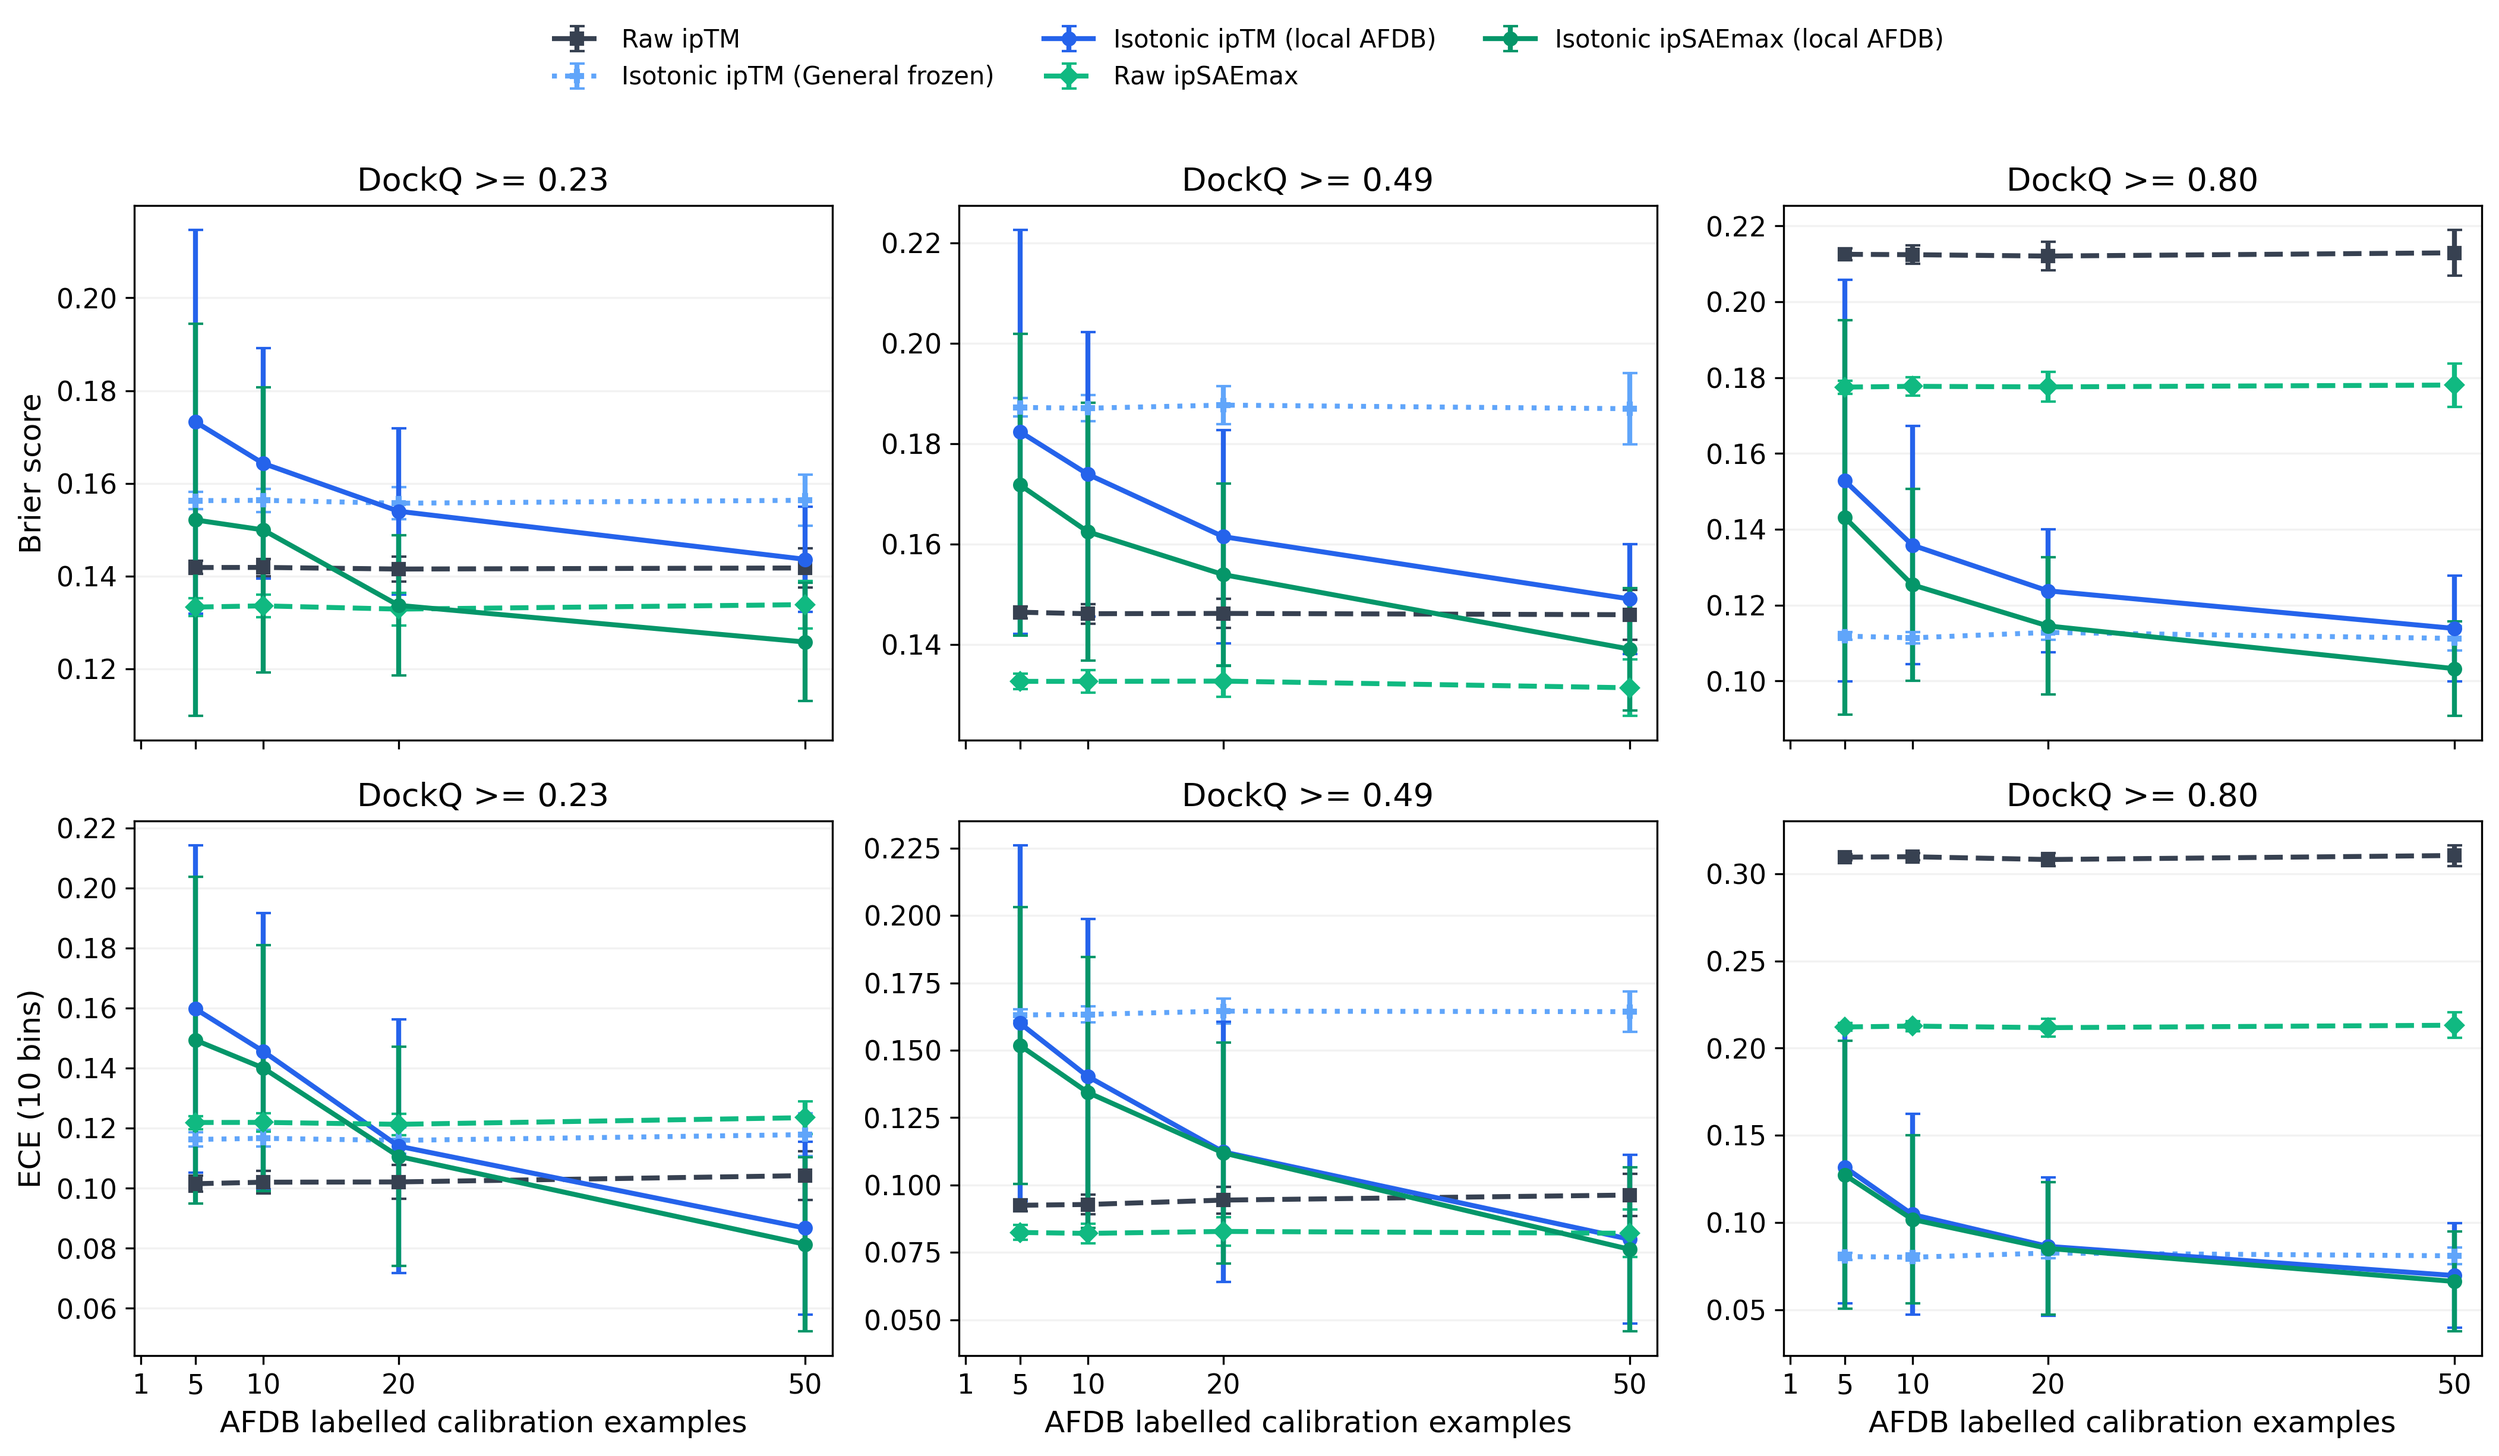
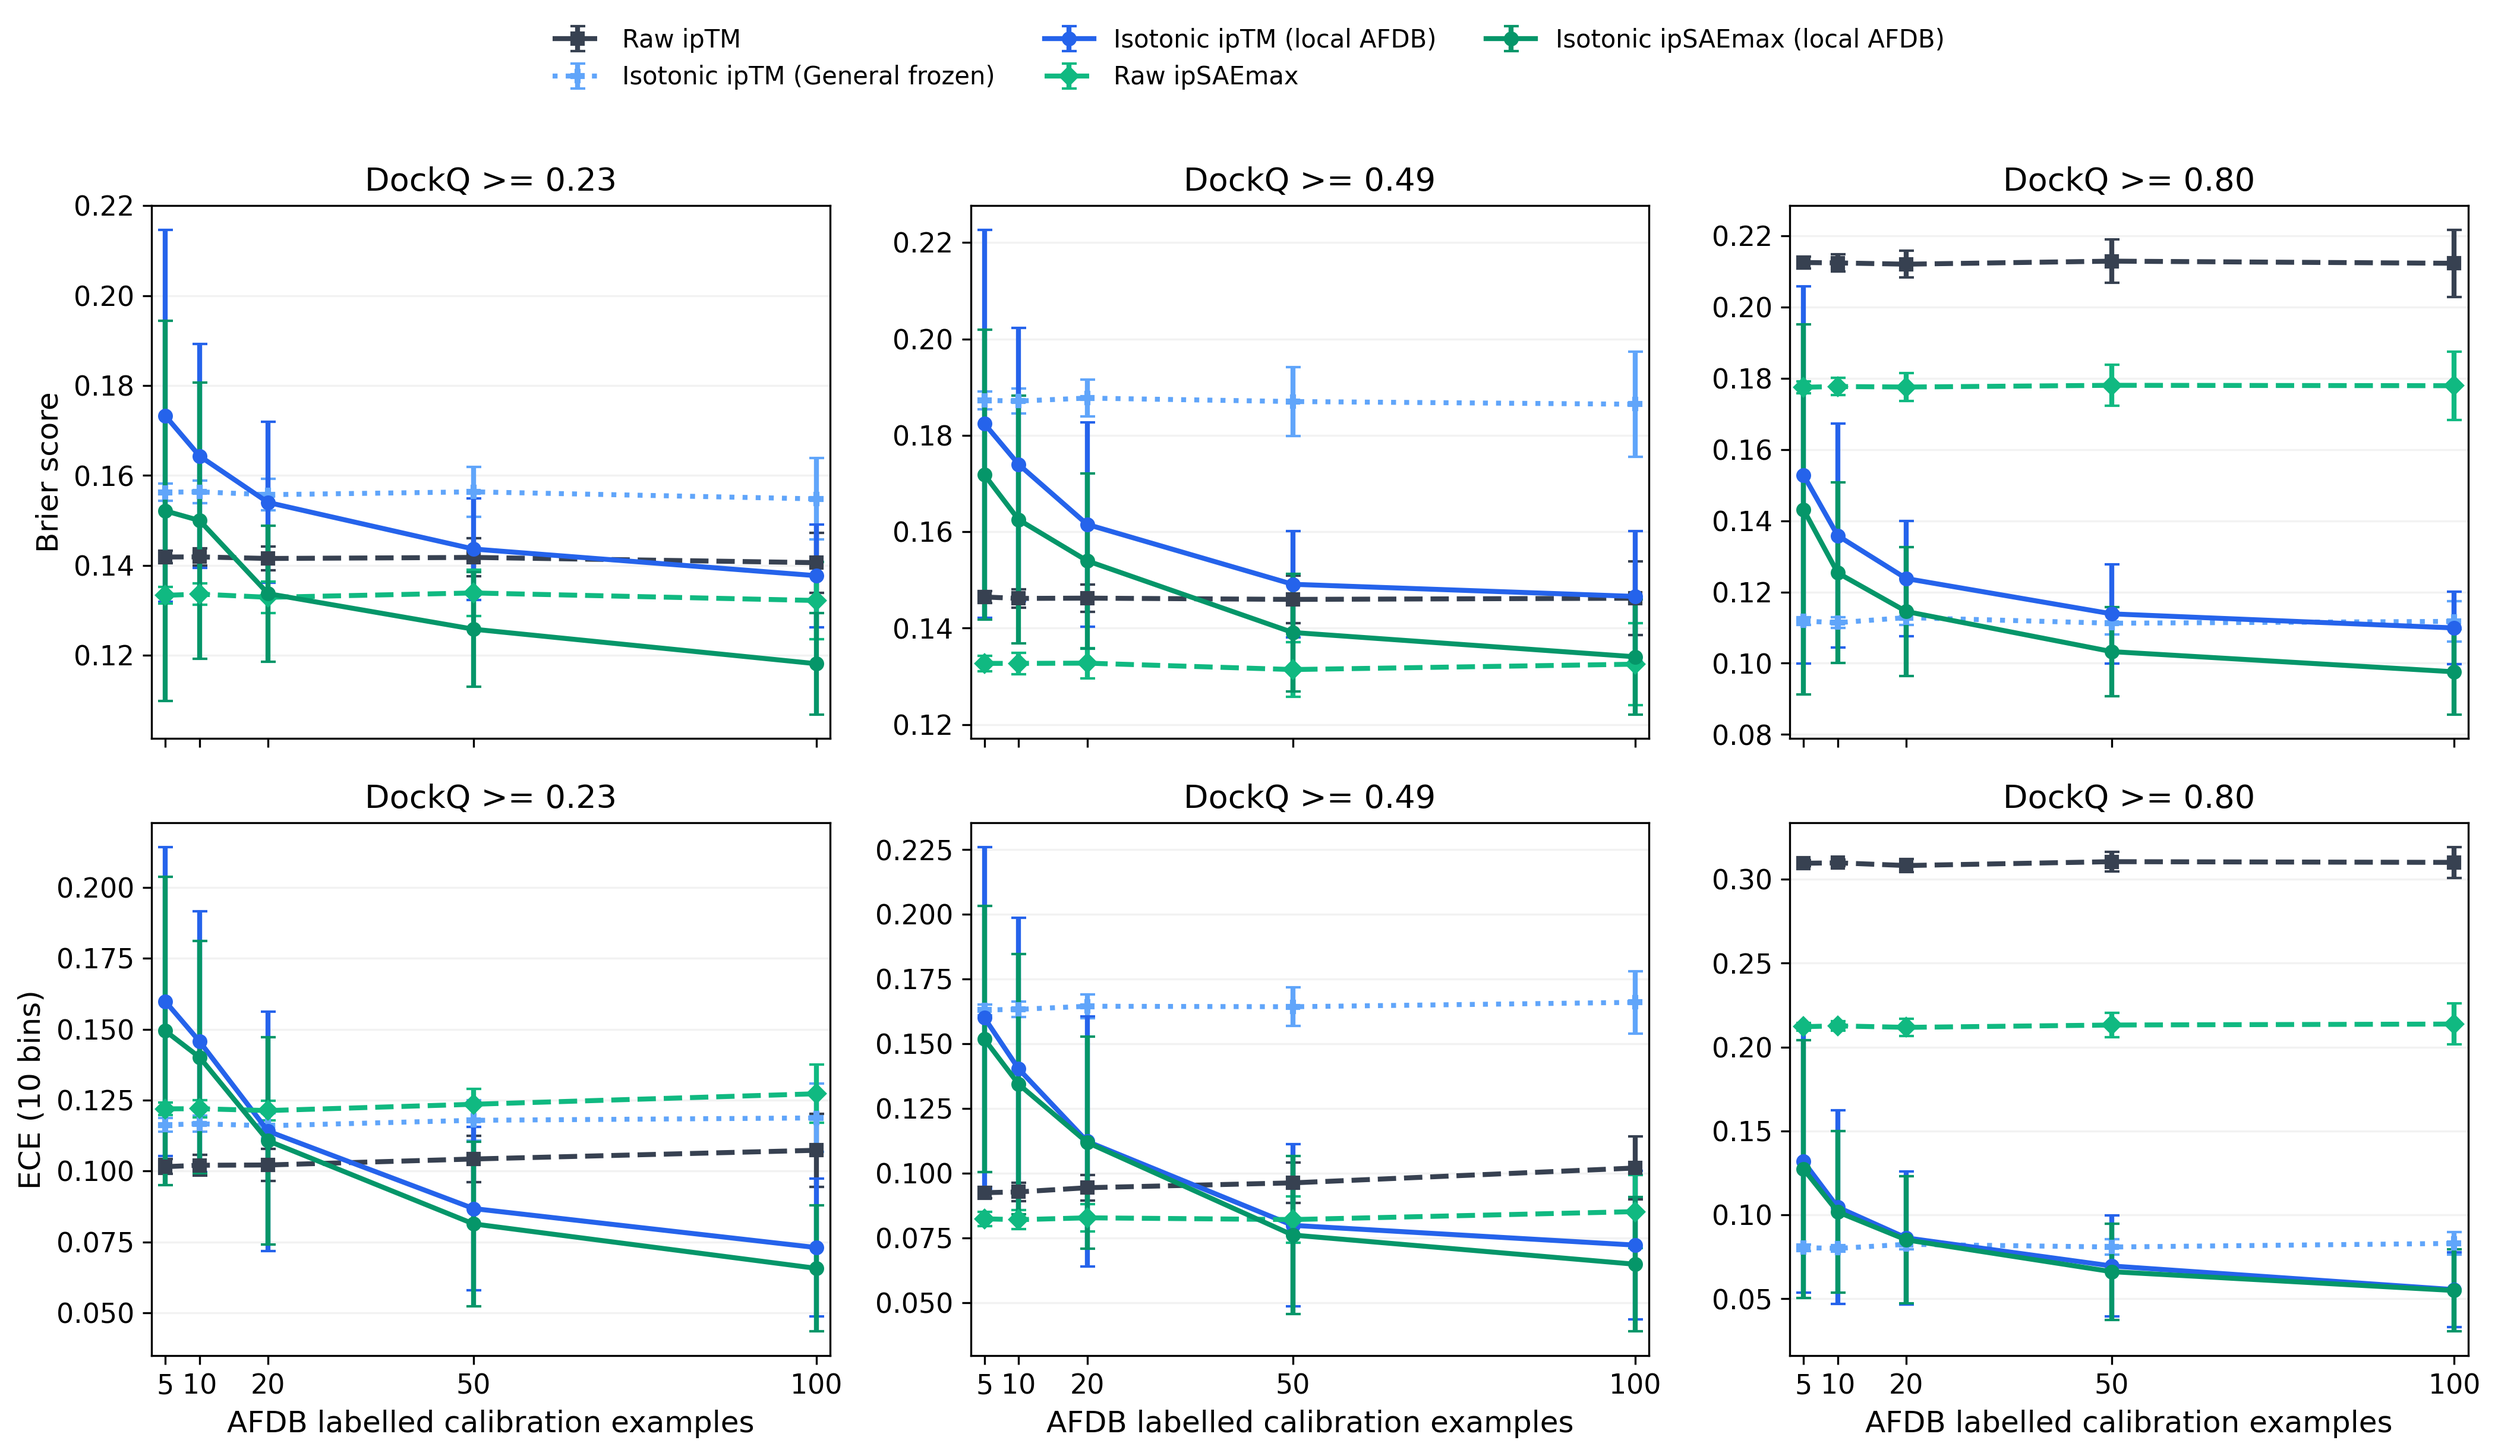
Add AFDB recalibration n100 point

diff --git a/scripts/render_workshop_final_figures.py b/scripts/render_workshop_final_figures.py
@@ -397,8 +397,10 @@ def render_figure3(source: pd.DataFrame) -> None:
                     label=method_name if (row_index, col_index) == (0, 0) else None,
                 )
             ax.set_title(f"DockQ >= {threshold_value:.2f}")
-            ax.set_xticks([1, 5, 10, 20, 50])
-            ax.set_xlim(0.5, 52)
+            # n=1 is retained in source data as unavailable provenance, but
+            # is not a plotted calibration point.
+            ax.set_xticks([5, 10, 20, 50, 100])
+            ax.set_xlim(3, 102)
             ax.grid(axis="y", alpha=0.16)
             if col_index == 0:
                 ax.set_ylabel("Brier score" if metric == "brier" else "ECE (10 bins)")

diff --git a/scripts/compute_workshop_afdb_recalibration.py b/scripts/compute_workshop_afdb_recalibration.py
@@ -15,7 +15,9 @@ AFDB_INPUT = ANALYSIS / "afdb" / "afdb_positive_dockq_features.csv"
 GENERAL_INPUT = DATA / "general_v2.csv"
 OUTPUT = ANALYSIS / "workshop" / "workshop_afdb_recalibration_source.csv"
 SUMMARY = ANALYSIS / "workshop" / "workshop_afdb_recalibration_summary.md"
-TRAIN_SIZES = [1, 5, 10, 20, 50]
+# Retain the unavailable n=1 provenance row and add the requested n=100
+# local-calibration point using the identical paired split protocol.
+TRAIN_SIZES = [1, 5, 10, 20, 50, 100]
 N_REPEATS = 100
 SEED = 42
 

diff --git a/analysis/workshop/workshop_afdb_recalibration_summary.md b/analysis/workshop/workshop_afdb_recalibration_summary.md
@@ -9,22 +9,22 @@
 - `train_size = 1` is marked unavailable because a disjoint stratified binary calibration split cannot be defined with fewer than two calibration examples.
 
 ## DockQ >= 0.23
-- Raw ipTM: best mean Brier 0.1416 ± 0.0027 at train_size=20.
-- Isotonic ipTM (General frozen): best mean Brier 0.1557 ± 0.0035 at train_size=20.
-- Isotonic ipTM (local AFDB): best mean Brier 0.1437 ± 0.0113 at train_size=50.
-- Raw ipSAEmax: best mean Brier 0.1329 ± 0.0035 at train_size=20.
-- Isotonic ipSAEmax (local AFDB): best mean Brier 0.1258 ± 0.0127 at train_size=50.
+- Raw ipTM: best mean Brier 0.1406 ± 0.0067 at train_size=100.
+- Isotonic ipTM (General frozen): best mean Brier 0.1548 ± 0.0090 at train_size=100.
+- Isotonic ipTM (local AFDB): best mean Brier 0.1377 ± 0.0114 at train_size=100.
+- Raw ipSAEmax: best mean Brier 0.1322 ± 0.0086 at train_size=100.
+- Isotonic ipSAEmax (local AFDB): best mean Brier 0.1182 ± 0.0113 at train_size=100.
 
 ## DockQ >= 0.49
 - Raw ipTM: best mean Brier 0.1460 ± 0.0050 at train_size=50.
-- Isotonic ipTM (General frozen): best mean Brier 0.1870 ± 0.0071 at train_size=50.
-- Isotonic ipTM (local AFDB): best mean Brier 0.1491 ± 0.0110 at train_size=50.
+- Isotonic ipTM (General frozen): best mean Brier 0.1865 ± 0.0109 at train_size=100.
+- Isotonic ipTM (local AFDB): best mean Brier 0.1466 ± 0.0136 at train_size=100.
 - Raw ipSAEmax: best mean Brier 0.1314 ± 0.0056 at train_size=50.
-- Isotonic ipSAEmax (local AFDB): best mean Brier 0.1391 ± 0.0122 at train_size=50.
+- Isotonic ipSAEmax (local AFDB): best mean Brier 0.1341 ± 0.0119 at train_size=100.
 
 ## DockQ >= 0.8
 - Raw ipTM: best mean Brier 0.2121 ± 0.0038 at train_size=20.
 - Isotonic ipTM (General frozen): best mean Brier 0.1112 ± 0.0032 at train_size=50.
-- Isotonic ipTM (local AFDB): best mean Brier 0.1139 ± 0.0140 at train_size=50.
+- Isotonic ipTM (local AFDB): best mean Brier 0.1099 ± 0.0102 at train_size=100.
 - Raw ipSAEmax: best mean Brier 0.1775 ± 0.0017 at train_size=5.
-- Isotonic ipSAEmax (local AFDB): best mean Brier 0.1033 ± 0.0125 at train_size=50.
+- Isotonic ipSAEmax (local AFDB): best mean Brier 0.0976 ± 0.0120 at train_size=100.

diff --git a/analysis/workshop/figure_results_summary.md b/analysis/workshop/figure_results_summary.md
@@ -12,6 +12,6 @@
 - Figure 2 published, DockQ >= 0.80, K=20: observed 3.30/20, Raw ipTM 10.32/20, Isotonic ipTM 3.46/20, pDockQ2 published 3.76/20.
 
 - Figure 3: `train_size = 1` is unavailable under the paired disjoint stratified protocol; the curves therefore begin at 5 examples.
-- Figure 3, DockQ >= 0.23: local isotonic ipTM Brier reaches 0.1437; local isotonic ipSAEmax reaches 0.1258; frozen General isotonic ipTM averages 0.1562 across the matched holdout splits.
-- Figure 3, DockQ >= 0.49: local isotonic ipTM Brier reaches 0.1491; local isotonic ipSAEmax reaches 0.1391; frozen General isotonic ipTM averages 0.1873 across the matched holdout splits.
-- Figure 3, DockQ >= 0.80: local isotonic ipTM Brier reaches 0.1139; local isotonic ipSAEmax reaches 0.1033; frozen General isotonic ipTM averages 0.1118 across the matched holdout splits.
+- Figure 3, DockQ >= 0.23: local isotonic ipTM Brier reaches 0.1377; local isotonic ipSAEmax reaches 0.1182; frozen General isotonic ipTM averages 0.1559 across the matched holdout splits.
+- Figure 3, DockQ >= 0.49: local isotonic ipTM Brier reaches 0.1466; local isotonic ipSAEmax reaches 0.1341; frozen General isotonic ipTM averages 0.1871 across the matched holdout splits.
+- Figure 3, DockQ >= 0.80: local isotonic ipTM Brier reaches 0.1099; local isotonic ipSAEmax reaches 0.0976; frozen General isotonic ipTM averages 0.1118 across the matched holdout splits.
